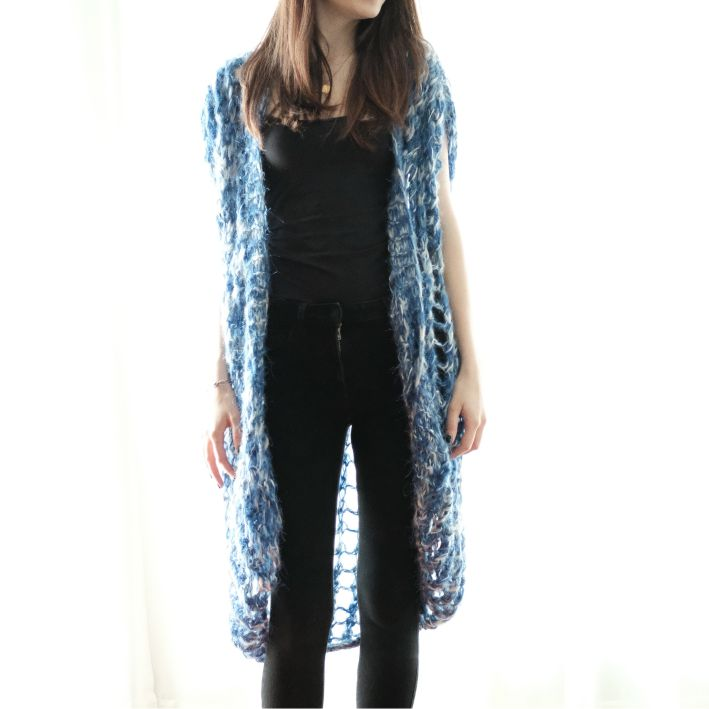
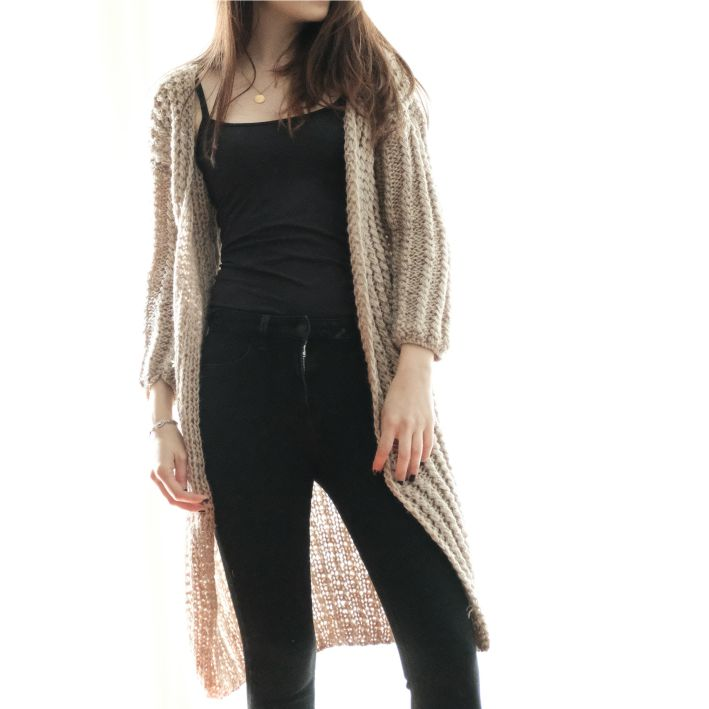
add new photos

diff --git a/src/components/Carousel/index.js b/src/components/Carousel/index.js
@@ -5,6 +5,7 @@ import {
 import cover1 from '../../assets/images/cover1.jpg';
 import cover2 from '../../assets/images/cover2.jpg';
 import cover3 from '../../assets/images/cover3.jpg';
+import cover4 from '../../assets/images/cover4.jpg';
 
 import Slider from "react-slick";
 // Import css files
@@ -26,6 +27,7 @@ class Carousel extends React.Component{
                     <View bgImg={cover1} w='100%' h='100vh' h_m='60vw' h_s='60vw' bgSize='cover'/>
                     <View bgImg={cover2} w='100%' h='100vh' h_m='60vw' h_s='60vw' bgSize='cover'/>
                     <View bgImg={cover3} w='100%' h='100vh' h_m='60vw' h_s='60vw' bgSize='cover'/>
+                    <View bgImg={cover4} w='100%' h='100vh' h_m='60vw' h_s='60vw' bgSize='cover'/>
                 </Slider>
             </View>
         )

diff --git a/src/components/Collections/index.js b/src/components/Collections/index.js
@@ -13,6 +13,7 @@ import p3 from '../../assets/images/col3.jpg';
 import p4 from '../../assets/images/col4.jpg';
 import p5 from '../../assets/images/col5.jpg';
 import p6 from '../../assets/images/col6.jpg';
+import p7 from '../../assets/images/col7.jpg';
 import p8 from '../../assets/images/col8.jpg';
 import p9 from '../../assets/images/col9.jpg';
 import p10 from '../../assets/images/col10.jpg';
@@ -51,6 +52,11 @@ class Collections extends React.Component{
                     id: 9,
                     src: p9,
                     title: "dresses",
+                },
+                {
+                    id: 7,
+                    src: p7,
+                    title: "sets",
                 },
                 {
                     id: 3,

diff --git a/src/components/NewColl/index.js b/src/components/NewColl/index.js
@@ -1,6 +1,6 @@
 import React from 'react';
 import { View } from '../../styled';
-import newcollection from '../../assets/images/newcollection.jpg';
+import newcollection from '../../assets/images/collectionnew.jpg';
 
 function NewColl(){
     return(
